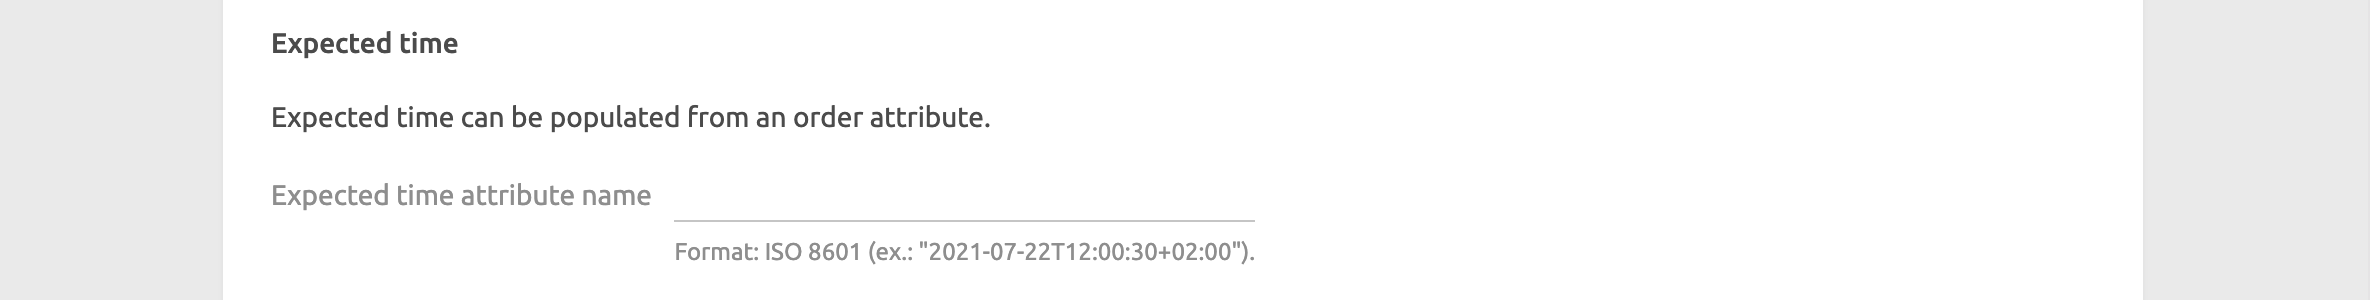
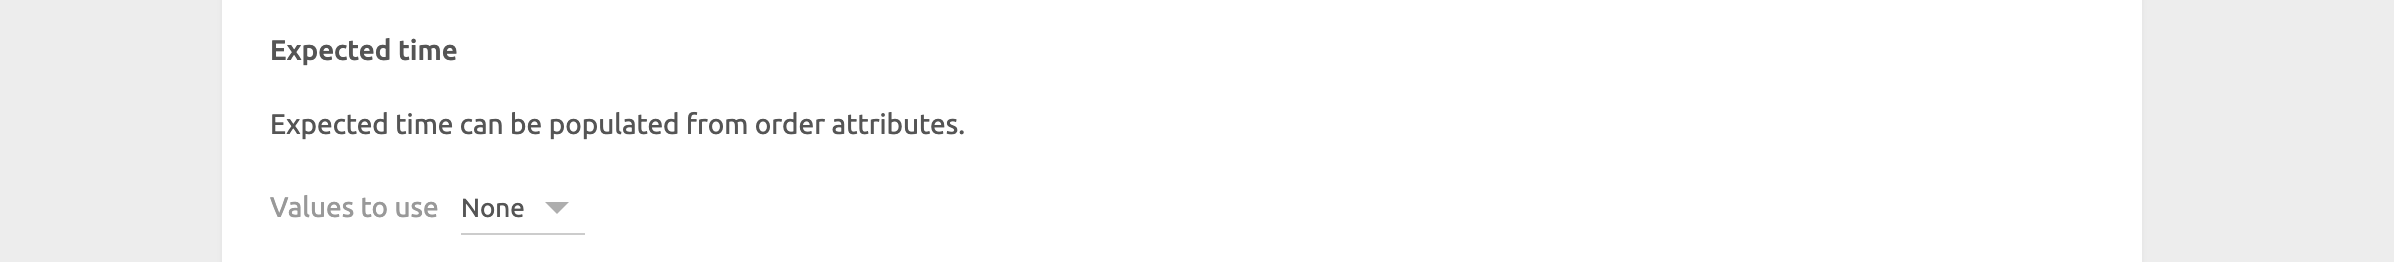
Shopify: update Configuration page
- Add content for the new sections
- Add missing screenshots
- Replace outdated screenshot

diff --git a/content/apps/shopify/en/configuration.md b/content/apps/shopify/en/configuration.md
@@ -24,6 +24,40 @@ The configuration page allows you to customise the behaviour of Shopify Bridge b
 
 In this section, you can customise how to map order status changes in HubRise back to Shopify. To ignore an order status change in HubRise, select **Do nothing**.
 
+## Service Types
+
+![Shopify Bridge configuration page, service types](./images/013-shopify-configuration-order-type.png)
+
+In the **Service type ref code** field, enter the ref code for the service that your EPOS expects.
+Refer to your EPOS documentation on the HubRise website [Apps page](/apps) to check requirements.
+
+## Expected Time
+
+![Shopify Bridge configuration page, order time](./images/014-shopify-configuration-order-time.png)
+
+From the **Values to use** drop-down menu, select if you want to use metadata to push the order expected time to HubRise.
+
+Depending on the plugin you use, Shopify can encode the the expected time in one or two metadata fields.
+
+If your plugin uses one metadata, the supported formats are the following:
+
+- ISO 8601. For example: `2021-07-22T12:00:30+02:00`.
+- Unix timestamp. For example: `1642422302`.
+
+If your plugin uses two metadata, the supported formats are the following:
+
+- The date must be in the `dd/mm/yyyy` format.
+- The time must be in the `hh:mm` format.
+
+## Payments
+
+![Shopify Bridge configuration page, payment type](./images/012-shopify-configuration-order-payment.png)
+
+To correctly parse the payment method in your orders, the **Payments** section lets you specify the payment name and ref code for up to 15 payment methods.
+Refer to your EPOS documentation on the HubRise website [Apps page](/apps) to verify the ref codes required by your EPOS.
+
+To identify the payment names for your supported payments, send a test order to HubRise for each method and review the logs in the [Orders page](/docs/data#orders).
+
 ### Multi-site
 
 ![Shopify Bridge configuration page, Multi-site section](./images/011-shopify-configuration-multisite.png)
@@ -36,13 +70,32 @@ In the **Name of the note attribute for multisite** field, specify the name of t
 
 In the **Value(s) for this location** field, specify the value associated with the location. You can specify multiple values separated by a comma.
 
-## Catalog
+## Catalog {#catalog}
 
 ![Shopify Bridge configuration page, Catalog section](./images/015-shopify-configuration-catalog.png)
 
-Select the **Enable automatic catalog push** checkbox to synchronise your HubRise catalog with Shopify whenever it gets updated.
+The **Catalog** section lets you customise how you send the HubRise catalog to Shopify.
 
+If you have variants in your catalog, select which catalog variant you want to push to Shopify from the **Variant** drop-down menu.
+
+If you want to automatically update your Shopify products every time your HubRise catalog is updated, tick the **Enable automatic catalog push** checkbox.
 Only new products added to the HubRise catalog will be sent to Shopify. Any existing products within Shopify will remain unchanged.
+
+By default, when you push a catalog into Shopify, Shopify Bridge creates new products in Shopify but does not update existing products.
+To update prices of existing products, tick the **Update prices of existing products** checkbox.
+
+## Location
+
+![Shopify Bridge configuration page, location](./images/017-shopify-configuration-location.png)
+
+If you have multiple Shopify stores, from the **Location** drop-down menu, select the store that you want to associate with the HubRise location.
+
+## Inventory
+
+![Shopify Bridge configuration page, inventory](./images/016-shopify-configuration-inventory.png)
+
+The **Inventory** section lets you configure automatic updates of the Shopify inventory counters when the HubRise inventory changes.
+To enable this feature, tick the **Enable automatic inventory push** checkbox.
 
 ## Save the Configuration
 
